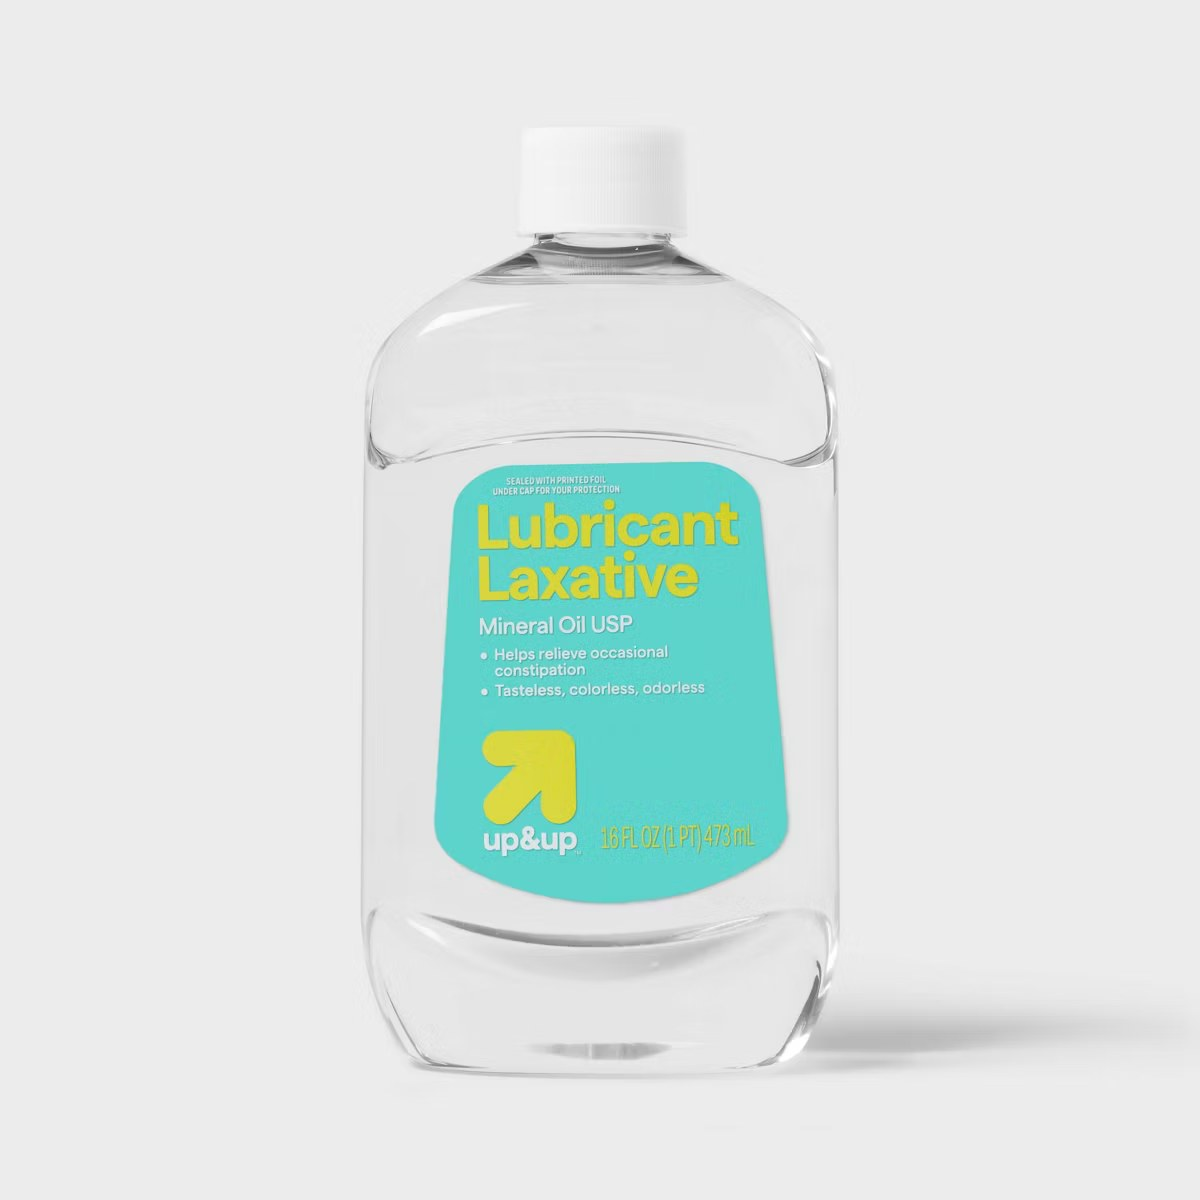
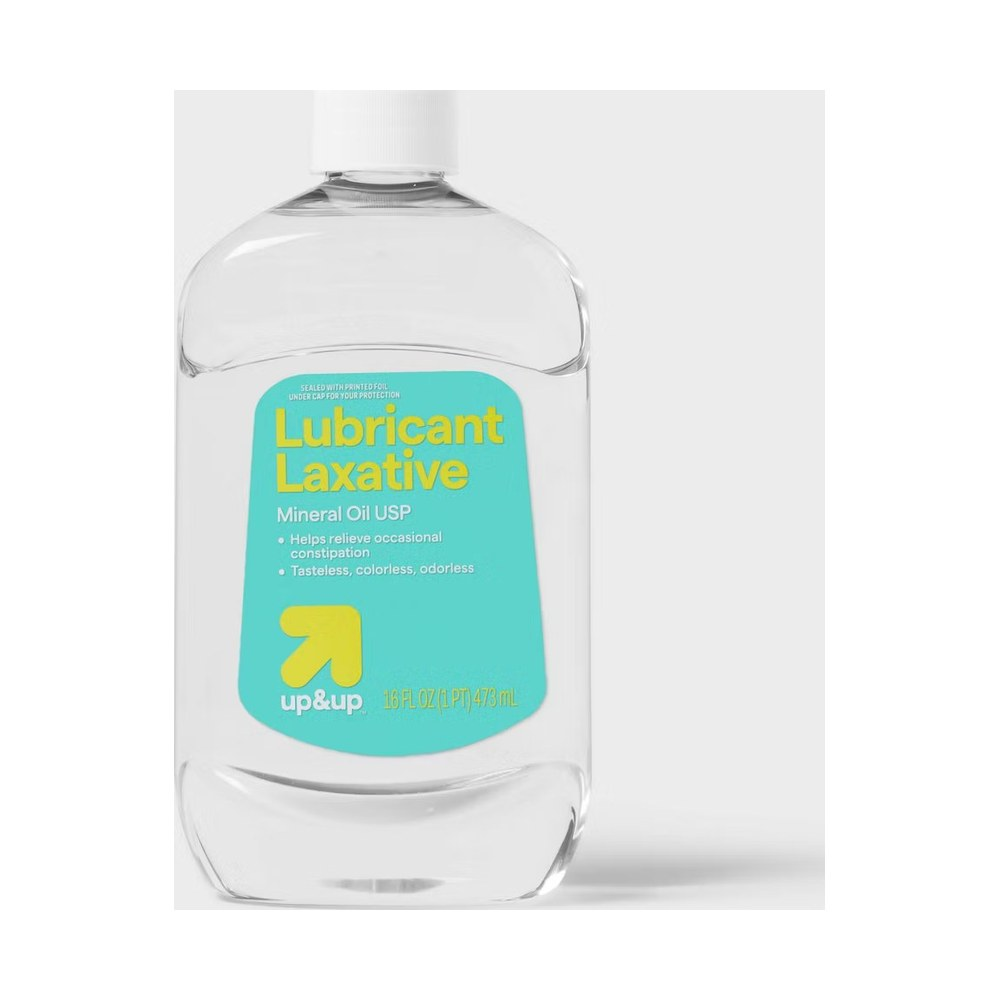
Square, uniform part photo boxes on the build guide and home page
New 1000x1000 part images; every photo box is now aspect-ratio 1/1,
full width, object-fit: contain on white with an 18px radius matching
the part cards, so cards line up evenly on desktop and phone.

diff --git a/build.html b/build.html
@@ -25,10 +25,11 @@
   .part-grid{display:grid;grid-template-columns:repeat(3,1fr);gap:18px}
   .part{background:var(--paper);border:1px solid var(--line);border-radius:18px;padding:26px;display:flex;flex-direction:column}
   .part .ph{aspect-ratio:16/10;border-radius:10px;background:repeating-linear-gradient(135deg,#efe8e6 0 12px,#f6f1ef 12px 24px);border:1.5px dashed #d8cfcc;display:grid;place-items:center;color:#a39894;font-size:13px;margin-bottom:22px}
-  .part .ph img{width:100%;height:100%;object-fit:contain;border-radius:9px}
-  .part .ph.has-img{background:#fff;border:1px solid var(--line);margin-bottom:8px;padding:10px}
-  .part .ph.trio{display:grid;grid-template-columns:1.1fr 1fr 1fr;gap:8px;align-items:center}
-  .part .ph.trio img{min-height:0}
+  /* Part photos: identical square white boxes so every card lines up. */
+  .part .ph.has-img{aspect-ratio:1/1;width:100%;background:#fff;border:1px solid var(--line);border-radius:18px;padding:8px;margin-bottom:8px;overflow:hidden}
+  .part .ph.has-img img{display:block;width:100%;height:100%;min-height:0;object-fit:contain;border-radius:0}
+  .part .ph.trio{display:grid;grid-template-columns:1fr 1fr;grid-template-rows:1fr 1fr;gap:4px}
+  .part .ph.trio img:first-child{grid-row:1 / 3}
   .ph-cap{margin:0 0 18px;font-size:12px;color:var(--muted)}
   .part .num{font:500 13px/1 var(--display);color:var(--red)}
   .part h3{font-size:22px;letter-spacing:-.02em;line-height:1.15;margin:10px 0 8px}

diff --git a/site.css b/site.css
@@ -212,9 +212,10 @@ h1,h2,h3{font-family:var(--display);font-weight:500;letter-spacing:-0.035em;line
 .shots{display:grid;grid-template-columns:repeat(3,1fr);gap:18px;margin-top:80px}
 .shot{aspect-ratio:4/3;border-radius:6px;background:repeating-linear-gradient(135deg,#efe8e6 0 12px,#f6f1ef 12px 24px);border:1px solid var(--line);display:flex;flex-direction:column;justify-content:space-between;padding:18px;color:var(--muted)}
 .shot b{color:var(--ink);font-weight:500;font-size:17px}
-.shot.has-img{margin:0;background:#fff;border-style:solid;padding:14px;gap:10px}
-.shot-img{flex:1;min-height:0;display:flex;gap:8px;align-items:center;justify-content:center}
-.shot-img img{width:100%;height:100%;min-height:0;object-fit:contain}
+/* Part photos: identical square white boxes (same as the build guide) so the row lines up. */
+.shot.has-img{margin:0;aspect-ratio:auto;background:none;border:0;padding:0;justify-content:flex-start;gap:12px}
+.shot-img{aspect-ratio:1/1;width:100%;background:#fff;border:1px solid var(--line);border-radius:18px;padding:8px;overflow:hidden;display:flex;gap:4px;align-items:center}
+.shot-img img{display:block;width:100%;height:100%;min-height:0;min-width:0;object-fit:contain}
 .shot.pair .shot-img img{width:50%}
 .shot figcaption{display:flex;flex-direction:column;gap:2px}
 .shot figcaption span{font-size:12px;color:var(--muted)}
